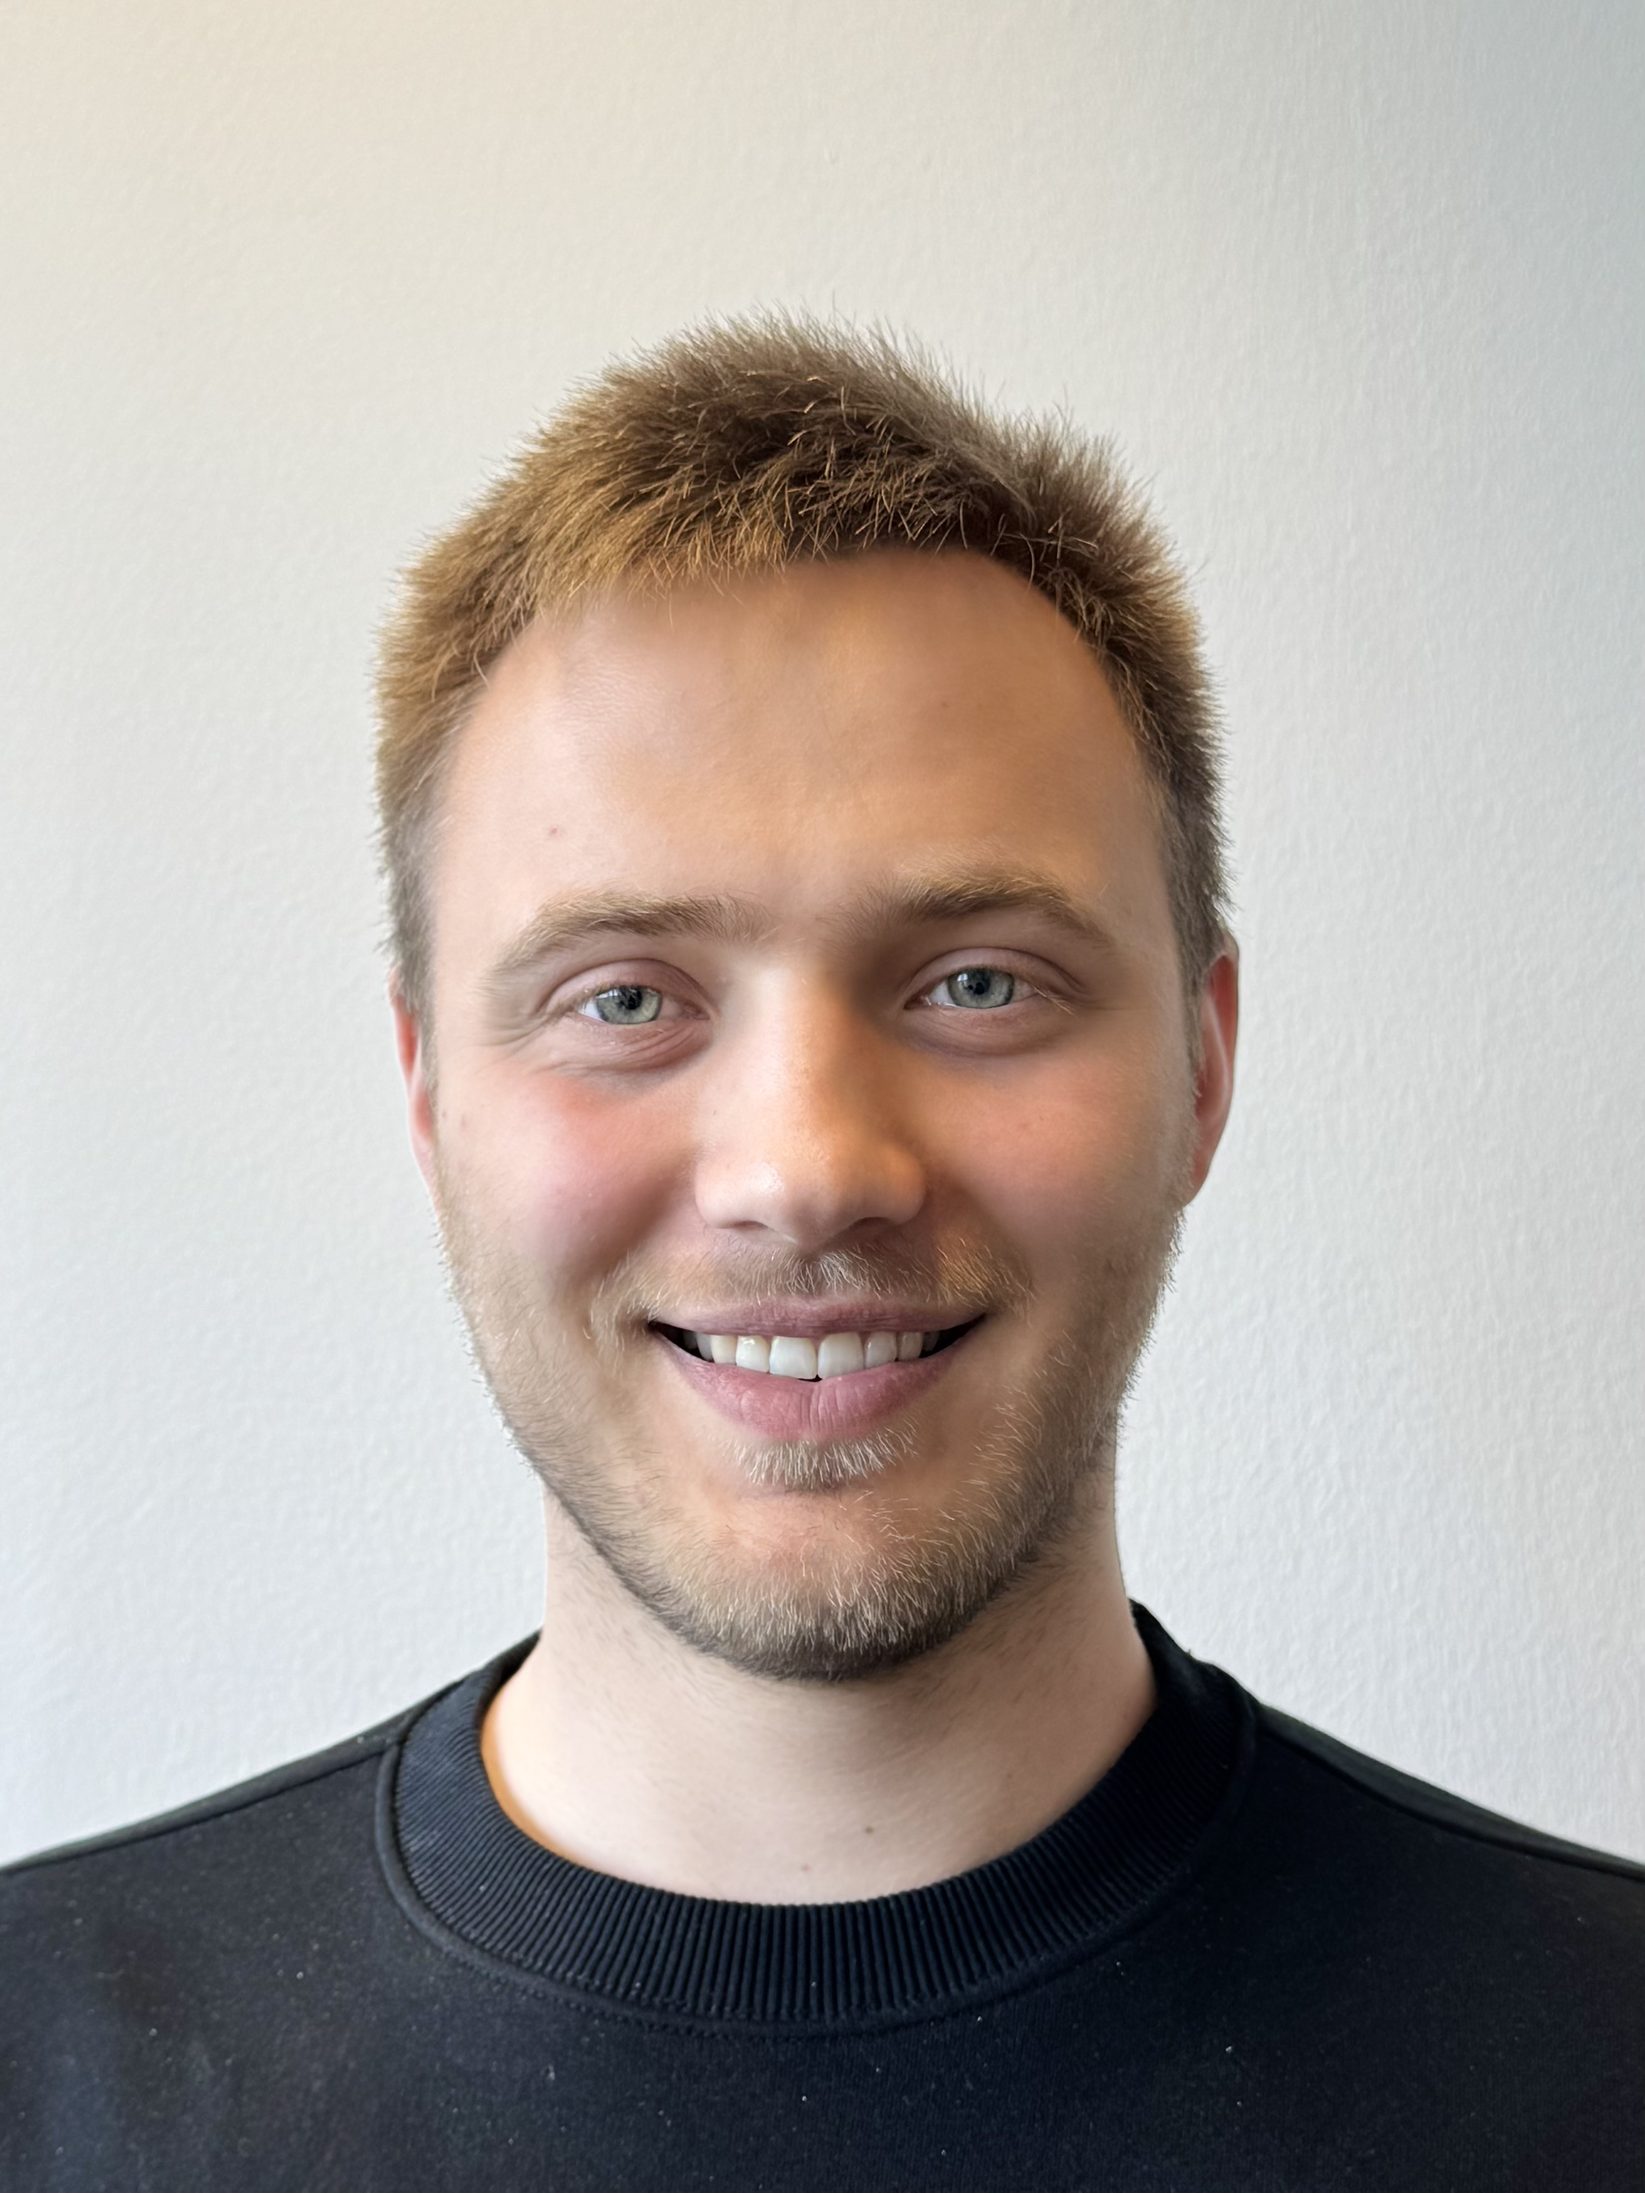
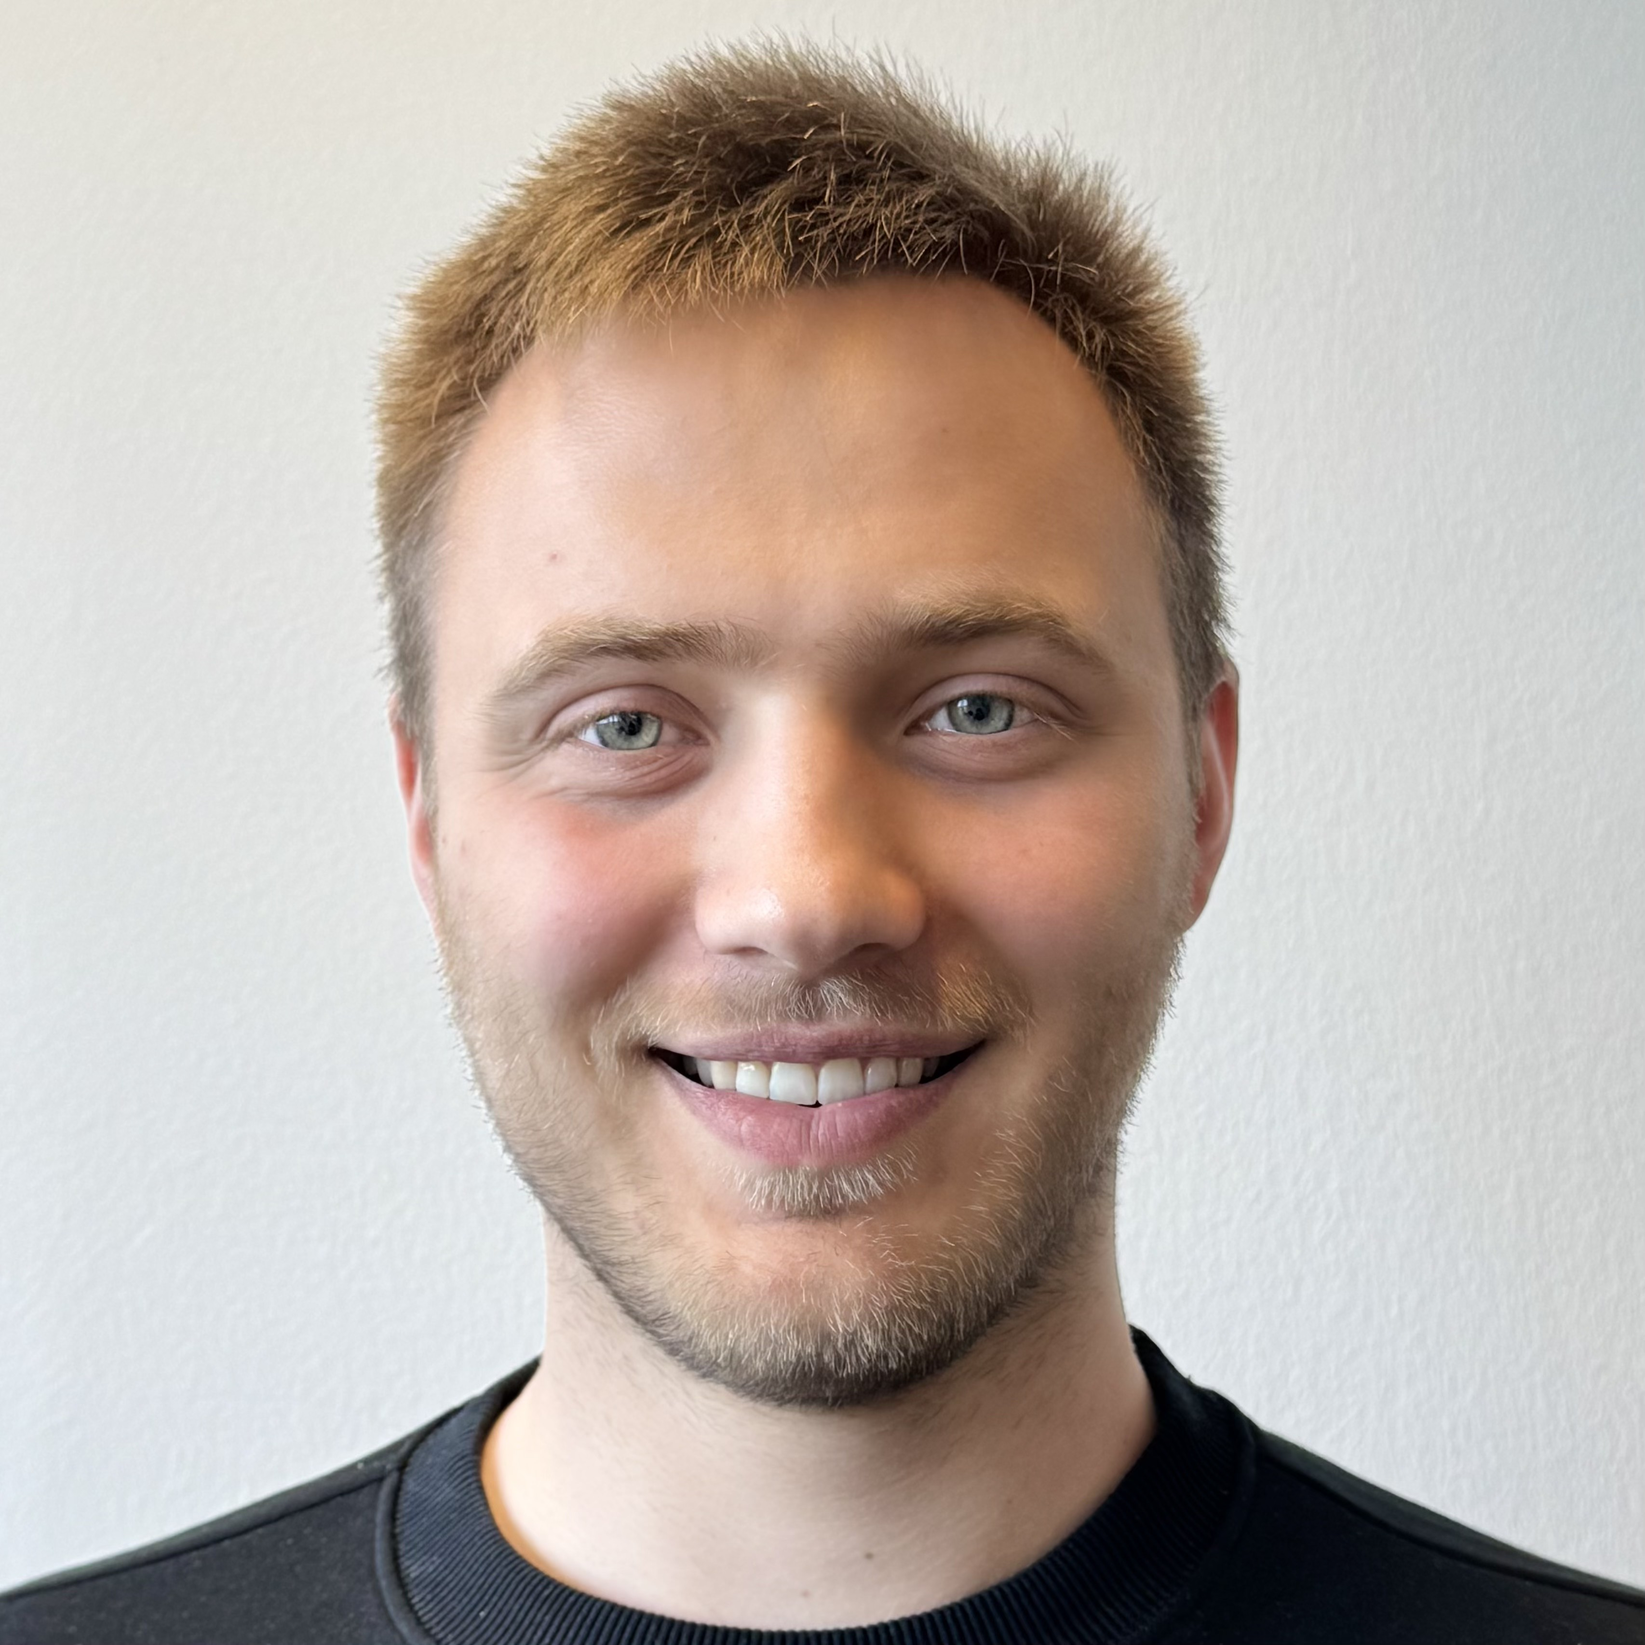
bio+pic update

diff --git a/_pages/about.md b/_pages/about.md
@@ -2,7 +2,7 @@
 layout: about
 title: About
 permalink: /
-subtitle: <a href='#'>Affiliations</a>. Address. Contacts. Motto. Etc.
+subtitle: Incoming CS PhD student at ETH Zürich
 
 profile:
   align: right
@@ -23,8 +23,13 @@ latest_posts:
   limit: 3 # leave blank to include all the blog posts
 ---
 
-Write your biography here. Tell the world about yourself. Link to your favorite [subreddit](http://reddit.com). You can put a picture in, too. The code is already in, just name your picture `prof_pic.jpg` and put it in the `img/` folder.
+I'm an incoming PhD student in Machine Learning at ETH Zürich advised by Andreas Krause and Kjell Jorner. 
+I will also be affiliated with the European Laboratory for Learning and Intelligent Systems (ELLIS) as a PhD fellow, co-advised by José Miguel Hernández-Lobato at the University of Cambridge. 
+In my research, I will develop new generative machine learning methods for chemical discovery.
 
-Put your address / P.O. box / other info right below your picture. You can also disable any of these elements by editing `profile` property of the YAML header of your `_pages/about.md`. Edit `_bibliography/papers.bib` and Jekyll will render your [publications page](/al-folio/publications/) automatically.
+Prior to joining ETH Zürich, I have interned with Dunia working on ML for integrated electrocatalyst discovery. 
+During my studies at RWTH Aachen, I have worked with Alexander Mitsos on numerical optimization for chemical inverse design. 
+I have also done an ERASMUS stay at EPFL, working with Clemence Corminboeuf and Philippe Schwaller on reaction prediction.
+In my Master's thesis at MIT with Rafael Gómez-Bombarelli I developed a flow matching model for multi-molecule docking in porous materials. 
 
-Link to your social media connections, too. This theme is set up to use [Font Awesome icons](https://fontawesome.com/) and [Academicons](https://jpswalsh.github.io/academicons/), like the ones below. Add your Facebook, Twitter, LinkedIn, Google Scholar, or just disable all of them.
+Reach out if you are interested in working with me!
